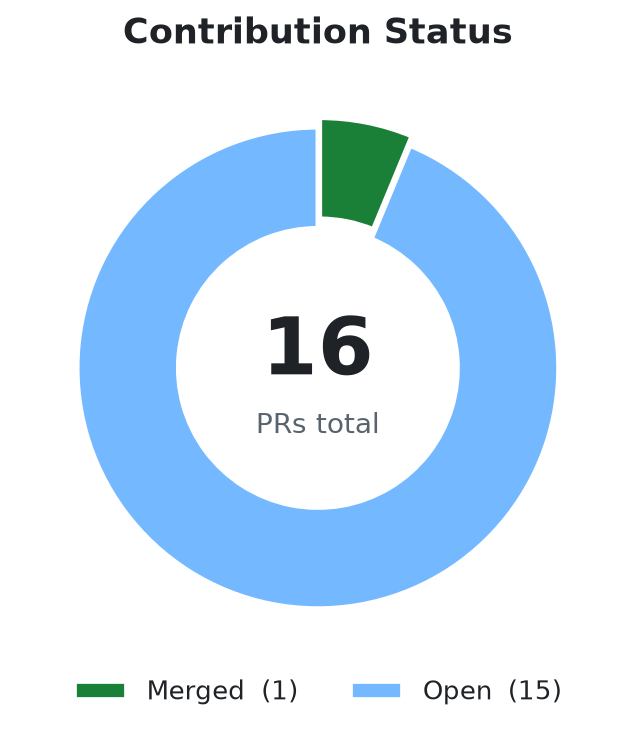
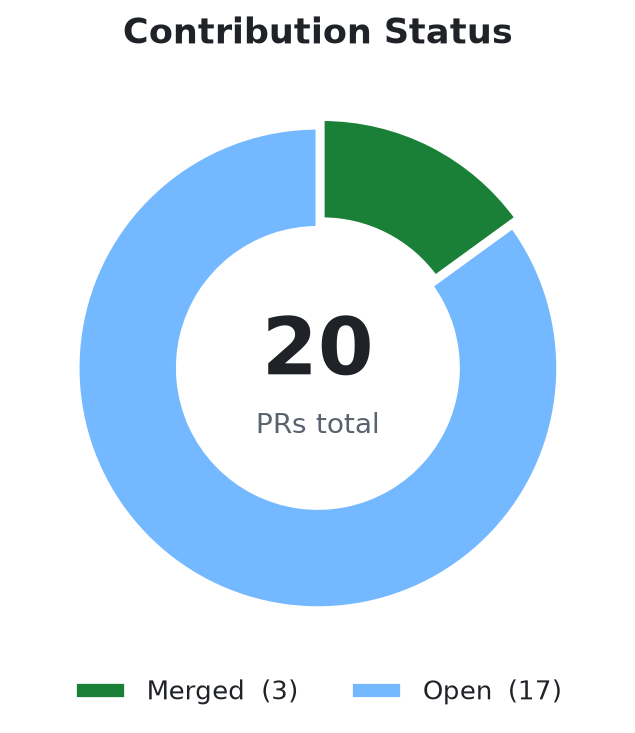
docs: 3 PRs merged (billiard, dlt, grafana); capture reviewer-widens-scope lesson (1.10.5)

diff --git a/scripts/generate_charts.py b/scripts/generate_charts.py
@@ -112,18 +112,21 @@ print("wrote assets/merge_gate.png and assets/triage_attrition.png")
 
 
 # ---------------------------------------------------------------- chart 3
-# Contributions by repository, all-time via `gh` as of 2026-08-17.
+# Contributions by repository, all-time via `gh` as of 2026-08-19.
 fig, ax = plt.subplots(figsize=(8, 4.6), dpi=170)
 repos = [
     ("outlines", 4, "#6c5ce7"),
     ("llama_index", 3, "#f0932b"),
     ("litellm", 3, "#00b894"),
+    ("vllm", 2, "#0984e3"),
+    ("dlt", 2, "#e17055"),
     ("psycopg", 1, "#0984e3"),
     ("sqlfluff", 1, "#d63031"),
     ("onyx", 1, "#e17055"),
     ("grafana", 1, "#fdcb6e"),
     ("directus", 1, "#a29bfe"),
-    ("billiard", 1, "#636e72"),
+    ("litellm-docs", 1, "#636e72"),
+    ("billiard", 1, "#2d3436"),
 ]
 repos = sorted(repos, key=lambda r: -r[1])
 names = [r[0] for r in repos]
@@ -134,8 +137,9 @@ ax.barh(y, counts, color=colors, height=0.62, zorder=3)
 for bar, c in zip(ax.patches, counts):
     ax.text(bar.get_width() + 0.08, bar.get_y() + bar.get_height() / 2,
             str(c), va="center", ha="left", fontsize=13, fontweight="bold", color=INK)
+# mark merged repos
 for i, n in enumerate(names):
-    if n == "billiard":
+    if n in ("billiard", "grafana", "dlt"):
         ax.text(counts[i] + 0.08, i, "\u2713 merged", va="center", ha="left",
                 fontsize=11, color=GREEN, fontweight="bold")
 ax.set_yticks(y)
@@ -154,13 +158,13 @@ plt.close(fig)
 # ---------------------------------------------------------------- chart 4
 # Contribution status: merged vs open.
 fig, ax = plt.subplots(figsize=(5.4, 4.4), dpi=170)
-merged, open_prs = 1, 15
+merged, open_prs = 3, 17
 sizes = [merged, open_prs]
 labels = ["Merged", "Open"]
 donut_colors = [GREEN, "#74b9ff"]
 wedges, _ = ax.pie(sizes, colors=donut_colors, startangle=90, counterclock=False,
                    explode=(0.04, 0), wedgeprops=dict(width=0.42, edgecolor="white", linewidth=2))
-ax.text(0, 0.06, "16", ha="center", va="center", fontsize=34, fontweight="bold", color=INK)
+ax.text(0, 0.06, "20", ha="center", va="center", fontsize=34, fontweight="bold", color=INK)
 ax.text(0, -0.24, "PRs total", ha="center", va="center", fontsize=12, color=MUTED)
 ax.legend(wedges, [f"{l}  ({s})" for l, s in zip(labels, sizes)],
           loc="lower center", bbox_to_anchor=(0.5, -0.1), ncol=2, frameon=False, fontsize=11)

diff --git a/README.ko.md b/README.ko.md
@@ -127,16 +127,18 @@ bash scripts/package_skill.sh
 
 ### 실제로 만들어낸 것
 
-이 스킬이 아무것도 없는 상태에서 찾아내고 근본 원인까지 특정한 PR 열여섯 건 — 그중 하나는 이미 머지됐고, 나머지는 리뷰 중입니다:
+이 스킬이 아무것도 없는 상태에서 찾아내고 근본 원인까지 특정한 PR 스무 건 — 그중 세 건은 이미 머지됐고, 나머지는 리뷰 중입니다:
 
 <div align="center">
   <img src="./assets/contributions-by-repo.png" alt="레포별 오픈소스 기여" width="720">
-  <img src="./assets/contribution-status.png" alt="기여 상태: 머지 1, 오픈 15" width="420">
+  <img src="./assets/contribution-status.png" alt="기여 상태: 머지 3, 오픈 17" width="420">
 </div>
 
 | PR | 버그 | 상태 |
 | :--- | :--- | :--- |
 | [celery/billiard#452](https://github.com/celery/billiard/pull/452) | 워커 예외가 래핑되어 `BaseException`이 호출자에게 전파되지 않음 | ✅ **머지됨** |
+| [dlt-hub/dlt#4367](https://github.com/dlt-hub/dlt/pull/4367) | `lag`가 `last_value`가 정확히 `0`(falsy)일 때 커서를 되감음 | ✅ **머지됨** |
+| [grafana/grafana#130906](https://github.com/grafana/grafana/pull/130906) | 복사된 짧은 URL에 리소스 namespace가 org ID로 박힘; on-prem은 사용자 org를, Cloud는 생략 | ✅ **머지됨** |
 | [run-llama/llama_index#22723](https://github.com/run-llama/llama_index/pull/22723) | Bedrock Cohere 모델이 `additional_kwargs`를 조용히 버려서 `output_dimension`이 API에 도달하지 못함 | 리뷰 중 |
 | [run-llama/llama_index#22724](https://github.com/run-llama/llama_index/pull/22724) | mcp 2.x `streamable_http_client`가 2-튜플을 반환하는데 `client.py`는 3-튜플로 풀고 있음 | 리뷰 중 |
 | [run-llama/llama_index#22725](https://github.com/run-llama/llama_index/pull/22725) | `Dispatcher.__init__`가 가변 리스트 기본값(`B006`)을 써서 핸들러 상태가 인스턴스 간 공유됨 | 리뷰 중 |
@@ -147,10 +149,12 @@ bash scripts/package_skill.sh
 | [BerriAI/litellm#37163](https://github.com/BerriAI/litellm/pull/37163) | Redis 클러스터 종료 시 `None` 커넥션 풀 역참조로 빌링 플러시가 중단됨 | 리뷰 중 |
 | [BerriAI/litellm#37164](https://github.com/BerriAI/litellm/pull/37164) | `langfuse_otel`이 `/v1/rerank`의 observation output을 설정하지 않음 | 리뷰 중 |
 | [BerriAI/litellm-docs#912](https://github.com/BerriAI/litellm-docs/pull/912) | 문서가 없는 함수 `litellm.turn_on_message_logging`을 참조 | 리뷰 중 |
+| [vllm-project/vllm#52610](https://github.com/vllm-project/vllm/pull/52610) | `/v1/messages`가 `tool_result` 안의 `tool_reference` 항목에서 크래시 | 리뷰 중 |
+| [vllm-project/vllm#52787](https://github.com/vllm-project/vllm/pull/52787) | `DeepseekCompressor`의 `head_dim==512` 경로가 `has_cutedsl()` 없이 CuTe DSL을 import | 리뷰 중 |
 | [psycopg/psycopg#1383](https://github.com/psycopg/psycopg/pull/1383) | 바이너리 복사 필드 길이가 데이터를 초과하면 일반 오류 대신 `DataError`가 나야 함 | 리뷰 중 |
 | [sqlfluff/sqlfluff#8350](https://github.com/sqlfluff/sqlfluff/pull/8350) | Dockerfile의 고정되지 않은 `pip-tools`가 `pip-compile`을 깨뜨림 | 리뷰 중 |
 | [onyx-dot-app/onyx#14011](https://github.com/onyx-dot-app/onyx/pull/14011) | 이미지 없는 배치에도 비전 LLM 경고가 발생 | 리뷰 중 |
-| [grafana/grafana#130614](https://github.com/grafana/grafana/pull/130614) | 리소스 namespace를 org ID로 써서 복사된 짧은 URL에 `orgId=org-5`가 박힘 | 리뷰 중 |
+| [dlt-hub/dlt#4373](https://github.com/dlt-hub/dlt/pull/4373) | 문서 사이드바 `Notifications` 카테고리를 `Alerts`로 변경 | 리뷰 중 |
 | [directus/directus#28092](https://github.com/directus/directus/pull/28092) | M2A union에 프래그먼트를 쓰면 모든 필드가 `null` | 리뷰 중 |
 
 두 번째 실행이 깔때기를 더 잘 보여줍니다: 백엔드 레포 30곳 가용성 심사 → 기여 이슈가 열린 13곳 → 머지 게이트 통과 11곳 → **후보 이슈 229건 연결 PR 검사** → 아직 잡을 수 있는 26건 → `main`에서 버그 실재가 확인된 1건.
@@ -166,7 +170,7 @@ bash scripts/package_skill.sh
 
 ## 차트 재현
 
-머지 게이트와 트라이지 차트는 2026-08-12에 실측한 데이터만 사용하며, 측정 방법이 차트에 함께 적혀 있습니다. 기여 차트는 이 스킬로 연 PR들을 `gh`로 추적한 데이터입니다(2026-08-17 기준):
+머지 게이트와 트라이지 차트는 2026-08-12에 실측한 데이터만 사용하며, 측정 방법이 차트에 함께 적혀 있습니다. 기여 차트는 이 스킬로 연 PR들을 `gh`로 추적한 데이터입니다(2026-08-19 기준):
 
 ```bash
 python3 scripts/generate_charts.py

diff --git a/README.md b/README.md
@@ -127,16 +127,18 @@ Every rule in the checklist was added after it cost a real run something.
 
 ### What it has produced
 
-Sixteen pull requests, each found and root-caused by the skill from a cold start — one already merged, the rest in review:
+Twenty pull requests, each found and root-caused by the skill from a cold start — three already merged, the rest in review:
 
 <div align="center">
   <img src="./assets/contributions-by-repo.png" alt="Open-source contributions by repository" width="720">
-  <img src="./assets/contribution-status.png" alt="Contribution status: 1 merged, 15 open" width="420">
+  <img src="./assets/contribution-status.png" alt="Contribution status: 3 merged, 17 open" width="420">
 </div>
 
 | PR | Bug | State |
 | :--- | :--- | :--- |
 | [celery/billiard#452](https://github.com/celery/billiard/pull/452) | Worker exceptions were wrapped instead of propagating `BaseException` to the caller | ✅ **merged** |
+| [dlt-hub/dlt#4367](https://github.com/dlt-hub/dlt/pull/4367) | Incremental `lag` rewound the cursor when `last_value` was exactly `0` (falsy) | ✅ **merged** |
+| [grafana/grafana#130906](https://github.com/grafana/grafana/pull/130906) | Copied short URLs carried `orgId=org-5` because the resource namespace was used as the org ID; on-prem carries the user's org, Cloud omits it | ✅ **merged** |
 | [run-llama/llama_index#22723](https://github.com/run-llama/llama_index/pull/22723) | Bedrock Cohere models silently dropped `additional_kwargs`, so `output_dimension` never reached the API | In review |
 | [run-llama/llama_index#22724](https://github.com/run-llama/llama_index/pull/22724) | mcp 2.x `streamable_http_client` yields a 2-tuple but `client.py` still unpacked a 3-tuple | In review |
 | [run-llama/llama_index#22725](https://github.com/run-llama/llama_index/pull/22725) | `Dispatcher.__init__` used mutable list defaults (`B006`), sharing handler state between instances | In review |
@@ -147,10 +149,12 @@ Sixteen pull requests, each found and root-caused by the skill from a cold start
 | [BerriAI/litellm#37163](https://github.com/BerriAI/litellm/pull/37163) | Redis cluster shutdown dereferenced a `None` connection pool, aborting billing flush | In review |
 | [BerriAI/litellm#37164](https://github.com/BerriAI/litellm/pull/37164) | `langfuse_otel` never set observation output for `/v1/rerank` | In review |
 | [BerriAI/litellm-docs#912](https://github.com/BerriAI/litellm-docs/pull/912) | Docs referenced nonexistent `litellm.turn_on_message_logging` | In review |
+| [vllm-project/vllm#52610](https://github.com/vllm-project/vllm/pull/52610) | `/v1/messages` crashed when a `tool_result` contained a `tool_reference` item | In review |
+| [vllm-project/vllm#52787](https://github.com/vllm-project/vllm/pull/52787) | `DeepseekCompressor`'s `head_dim==512` path imported CuTe DSL without a `has_cutedsl()` guard | In review |
 | [psycopg/psycopg#1383](https://github.com/psycopg/psycopg/pull/1383) | Binary copy field length exceeding data raised a generic error instead of `DataError` | In review |
 | [sqlfluff/sqlfluff#8350](https://github.com/sqlfluff/sqlfluff/pull/8350) | Unpinned `pip-tools` in the Dockerfile broke `pip-compile` | In review |
 | [onyx-dot-app/onyx#14011](https://github.com/onyx-dot-app/onyx/pull/14011) | Vision-LLM warning fired for batches without images | In review |
-| [grafana/grafana#130614](https://github.com/grafana/grafana/pull/130614) | Copied short URLs carried `orgId=org-5` because the resource namespace was used as the org ID | In review |
+| [dlt-hub/dlt#4373](https://github.com/dlt-hub/dlt/pull/4373) | Docs sidebar `Notifications` category renamed to `Alerts` | In review |
 | [directus/directus#28092](https://github.com/directus/directus/pull/28092) | GraphQL fragments on an M2A union resolved every field to `null` | In review |
 
 The second run is the better illustration of the funnel: 30 backend repos screened for availability → 13 with open contribution issues → 11 through the merge gate → **229 candidate issues checked for linked PRs** → 26 still claimable → one with a defect verified live in `main`.
@@ -166,7 +170,7 @@ The second run is the better illustration of the funnel: 30 backend repos screen
 
 ## Reproducing the charts
 
-The merge-gate and triage charts come only from measurements taken on 2026-08-12, with the method printed on each chart; the contribution charts track PRs opened through this skill via `gh` (as of 2026-08-17):
+The merge-gate and triage charts come only from measurements taken on 2026-08-12, with the method printed on each chart; the contribution charts track PRs opened through this skill via `gh` (as of 2026-08-19):
 
 ```bash
 python3 scripts/generate_charts.py

diff --git a/CHANGELOG.md b/CHANGELOG.md
@@ -11,6 +11,7 @@ All notable changes to this project will be documented in this file.
 - **When a reviewer points at the "second half" of the same bug, fold it into this PR instead of deferring to a follow-up** (PR checklist §6). On LLaMA-Factory #10759, the reviewer confirmed the `top_p` fix then flagged the same `or 1.0` silent-rewrite still in the SGLang engine and in `repetition_penalty` at three call sites; folding them in made four backends agree and the reviewer closed with explicit praise. Practical rules: grep the whole repo for the anti-pattern class before submitting; verify the *actual commit* each round not the summary; read the full thread before treating a review as approval; and leave what the reviewer deliberately marked to keep (e.g. `top_k ... or -1` — a faithful `0`→`-1` translation, not a rewrite), saying why.
 - **A cla-assistant-style CLA must be signed by the user in a browser — there is no API/CLI route** (PR checklist §4). The bot leaves a `not_signed` badge and a `?pullRequest={n}` link; hand the user the exact URL, not the repo root. One signature covers the whole org (litellm's two PRs satisfied by one sign). After signing, the check may need a re-trigger ("Let us recheck") or an empty-amend push. CLA state is per-PR, so a later PR on the same repo may show `not_signed` until it self-detects. Spot CLA-vs-label gates by reading `.github/workflows` (mem0's `pr-gate.yml` closes PRs whose issue lacks `accepted`, separate from CLA).
 - **Verify a commit's author-email attribution, not just the local git config** (PR checklist §3b). A merged PR counts toward profile achievements (Pull Shark Bronze = 2 merged PRs) only if GitHub attributes the commits — keyed to the commit's author email matching an account email. Check via the Commits API (`author_login` non-null and equal to the account confirms the email is registered; null means the contribution is silently dropped). Badges can lag merge by up to ~24h (async batch), so verify `author_login` on the merged commits right away while telling the user the badge may take a day.
+- **A reviewer can legitimately widen the fix to a deployment mode your issue didn't mention — smallest change is bounded by the environments the code runs in** (PR checklist §1h). grafana #130906 unconditionally baked the user's orgId into a short-URL param; reviewer evictorero pointed out Cloud doesn't support multi-org and named the existing `isOnPrem()` helper. The fix became: on-prem carries the org, Cloud omits it, with a Cloud test — approved and merged the same day. When a reviewer names an existing helper/flag to condition on, that distinction is the spec; cover the not-default mode in a test; and note a CODEOWNERS-path approval is often the one that unlocks merge (nmarrs approved but flagged a different approver was needed after he pushed an update).
 
 ## [1.10.4] - 2026-08-17
 

diff --git a/first-contribution/references/pr-acceptance-checklist.md b/first-contribution/references/pr-acceptance-checklist.md
@@ -131,6 +131,27 @@ not strictly required by the fix — unrelated refactors, drive-by formatting, "
 here" improvements. Move genuinely separate changes into their own PR. Every line you
 can cut is a line the reviewer doesn't have to verify.
 
+**Smallest change is still bounded by the environments the code runs in — a reviewer can
+legitimately ask you to widen the fix to handle a deployment mode your issue didn't
+mention.** On grafana #130906, the change baked the user's `orgId` into the short-URL
+query param unconditionally. A reviewer (evictorero) pointed out that Cloud doesn't
+support multi-org, so `?orgId=1` was pure noise there — and pointed at an existing
+`isOnPrem()` helper. The fix became: on on-prem carry the org, on Cloud omit the param,
+with a Cloud test added. The reviewer then approved and it merged the same day. Rules
+this teaches:
+
+- **When a reviewer names an existing helper to condition on, use it.** If the repo
+  already distinguishes a mode (`isOnPrem()`, platform checks, feature flags), the
+  reviewer is telling you the *spec* is that distinction, not "always add the param."
+- **Cover the not-default mode in a test**, even if the original report was single-mode.
+  The Cloud case is the one the reviewer specifically worried about; asserting it shows
+  you understood why they asked.
+- **A code-owners reviewer's approval is often the one that unlocks merge.** matyax
+  reviewed but stepped back; nmarrs approved but flagged he needed a *different*
+  approver (he'd pushed an update); the deciding review came from the CODEOWNERS path
+  (evictorero). Don't assume one approve is enough — read who the policy actually
+  requires, and be ready for a second reviewer on the owning team.
+
 ## 1i. Account for distributed/cluster modes and memory limits during database operations (e.g., Redis/Valkey)
 
 A fix that works perfectly in a local single-node environment or testing suite can cause severe failures, crashes, or out-of-memory errors in large-scale production environments or distributed modes (such as Redis/Valkey Cluster).

diff --git a/rag-contribution/references/pr-acceptance-checklist.md b/rag-contribution/references/pr-acceptance-checklist.md
@@ -131,6 +131,27 @@ not strictly required by the fix — unrelated refactors, drive-by formatting, "
 here" improvements. Move genuinely separate changes into their own PR. Every line you
 can cut is a line the reviewer doesn't have to verify.
 
+**Smallest change is still bounded by the environments the code runs in — a reviewer can
+legitimately ask you to widen the fix to handle a deployment mode your issue didn't
+mention.** On grafana #130906, the change baked the user's `orgId` into the short-URL
+query param unconditionally. A reviewer (evictorero) pointed out that Cloud doesn't
+support multi-org, so `?orgId=1` was pure noise there — and pointed at an existing
+`isOnPrem()` helper. The fix became: on on-prem carry the org, on Cloud omit the param,
+with a Cloud test added. The reviewer then approved and it merged the same day. Rules
+this teaches:
+
+- **When a reviewer names an existing helper to condition on, use it.** If the repo
+  already distinguishes a mode (`isOnPrem()`, platform checks, feature flags), the
+  reviewer is telling you the *spec* is that distinction, not "always add the param."
+- **Cover the not-default mode in a test**, even if the original report was single-mode.
+  The Cloud case is the one the reviewer specifically worried about; asserting it shows
+  you understood why they asked.
+- **A code-owners reviewer's approval is often the one that unlocks merge.** matyax
+  reviewed but stepped back; nmarrs approved but flagged he needed a *different*
+  approver (he'd pushed an update); the deciding review came from the CODEOWNERS path
+  (evictorero). Don't assume one approve is enough — read who the policy actually
+  requires, and be ready for a second reviewer on the owning team.
+
 ## 2. Linting and Formatting
 - Many repos enforce formatting checks (e.g., `black`, `ruff`, `prettier`, `eslint`) in their CI pipelines.
 - Find the formatting command in `CONTRIBUTING.md` or `package.json`/`Makefile` and run it (e.g., `make lint` or `npm run format`).
